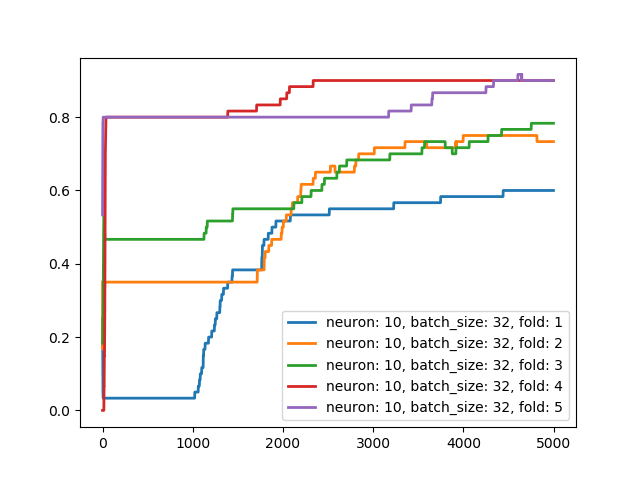
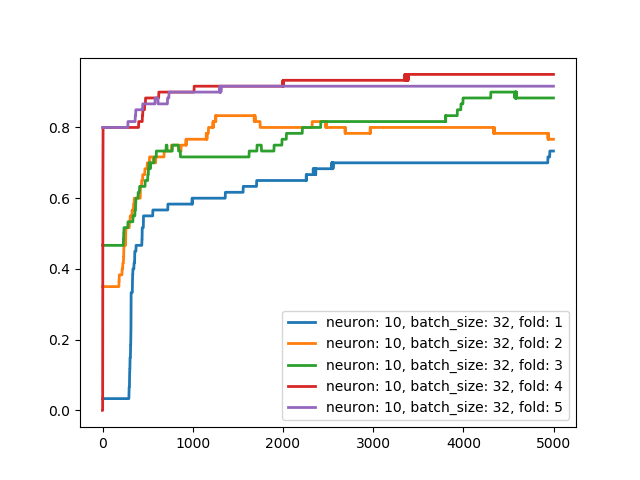
Add batch handling

diff --git a/start_project_1a.py b/start_project_1a.py
@@ -15,18 +15,7 @@ tf.compat.v1.logging.set_verbosity(tf.compat.v1.logging.ERROR)
 def scale(X, X_min, X_max):
     return (X - X_min)/(X_max-X_min)
 
-def batch_separator(data, batch_size) -> list:
-    """Separates into batches. Returns list of subarrays
-    """
-    data_len = data.shape[0]
-    remove_data = data_len % batch_size
-    print(data.shape)
-    if remove_data != 0:
-        data = data[:-remove_data,:]
-    split_num = int(data_len / batch_size)
-    return np.split(data, split_num)
-
-    # Build the graph for the deep net
+# Build the graph for the deep net
 def ffn(x, num_neurons):
     """Feedforward net with 1 hidden layer
     """
@@ -54,11 +43,10 @@ def make_train_model(X,Y,batch_size, num_neurons_list):
     for fold in range(num_folds):
         print(f'Fold number: {fold+1}')
         n = int(train_x.shape[0] / num_folds)
-        print(f'n = {n}')
-        start, end = fold*n, (fold+1)*n
-        x_test, y_test = test_x[start:end], test_y[start:end]
-        x_train  = np.append(train_x[:start], train_x[end:], axis=0)
-        y_train = np.append(train_y[:start], train_y[end:], axis=0) 
+        fold_start, fold_end = fold*n, (fold+1)*n
+        x_test, y_test = test_x[fold_start:fold_end], test_y[fold_start:fold_end]
+        x_train  = np.append(train_x[:fold_start], train_x[fold_end:], axis=0)
+        y_train = np.append(train_y[:fold_start], train_y[fold_end:], axis=0) 
         # print(test_index)
 
         train_acc_ = []
@@ -69,6 +57,7 @@ def make_train_model(X,Y,batch_size, num_neurons_list):
             y_ = tf.placeholder(tf.float32, [None, NUM_CLASSES])
 
             logits, regularizer = ffn(x, num_neurons)
+
             cost = tf.nn.softmax_cross_entropy_with_logits_v2(labels=y_, logits=logits)
             loss = tf.reduce_mean(cost + weight_decay_beta*regularizer)
 
@@ -82,7 +71,9 @@ def make_train_model(X,Y,batch_size, num_neurons_list):
             with tf.Session() as sess:
                 sess.run(tf.global_variables_initializer())
                 for i in range(epochs):
-                    train_op.run(feed_dict={x: x_train, y_: y_train})
+                    # Handle in batches
+                    for start, end in zip(range(0, len(x_train), batch_size), range(batch_size, len(x_train), batch_size)):
+                        train_op.run(feed_dict={x: x_train[start:end], y_: y_train[start:end]})
                     train_acc_.append(accuracy.eval(feed_dict={x: x_test, y_: y_test}))
 
                     if i % 100 == 0:
@@ -115,23 +106,7 @@ trainY[np.arange(train_Y.shape[0]), train_Y-1] = 1 # one hot matrix
 trainX = trainX[:1000]
 trainY = trainY[:1000]
 
-# shuffle is true by default
-# train_x, test_x, train_y, test_y = train_test_split(trainX, trainY, test_size=0.3, random_state=seed)
-# train_x = batch_separator(train_x, batch_size[3])
-# test_x = batch_separator(test_x, batch_size[3])
-# train_y = batch_separator(train_y, batch_size[3])
-# test_y = batch_separator(test_y, batch_size[3])
-# print(train_x[0].shape)
-# sys.exit()
-
 train_acc = make_train_model(trainX, trainY ,batch_size[3], [num_neurons_list[1]]) # Q1, batch size 32, 10 hidden neurons
-
-# plot learning curves
-# plt.figure(1)
-# plt.plot(range(epochs), train_acc)
-# plt.xlabel(str(epochs) + ' iterations')
-# plt.ylabel('Train accuracy')
-# plt.show()
 
 fig, ax = plt.subplots()
 for i in range(len(train_acc)):
